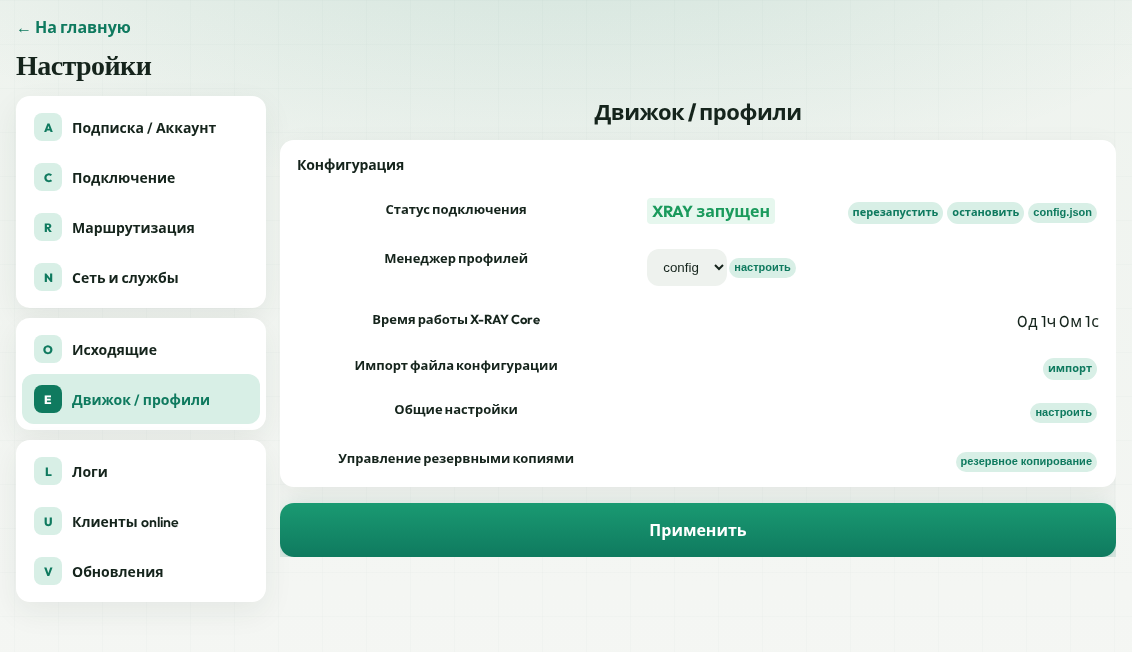
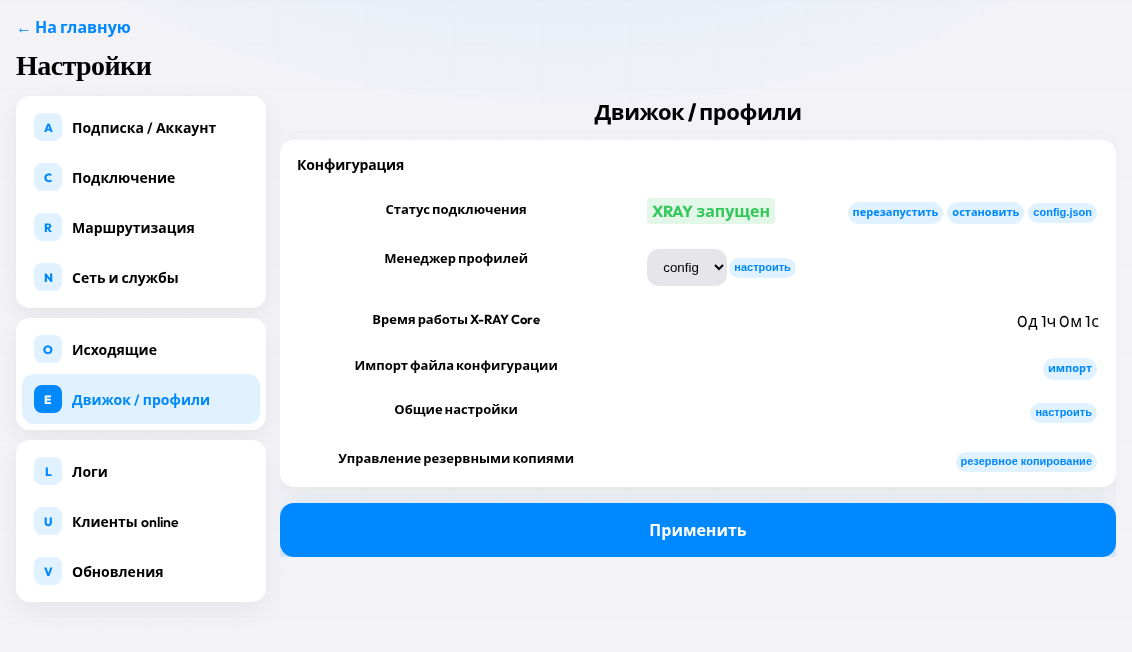
style: retint panel to iOS 27 system colors
Keep Soft Utility + Fraunces/Outfit; swap emerald for systemBlue

#0088FF, systemGreen #34C759, systemRed #FF383C, grouped #F2F2F7.

diff --git a/src/components/panel/panelTheme.scss b/src/components/panel/panelTheme.scss
@@ -1,16 +1,18 @@
-/* Light SurfGate panel (standalone :1131) — Soft Utility + Signal Paper. */
+/* Light SurfGate panel — Soft Utility + Signal Paper typography, iOS 27 colors. */
 .ss-panel-root {
-  --ss-bg0: #f4f6f3;
-  --ss-bg1: #fafbf9;
-  --ss-card: #ffffff;
-  --ss-text: #15241c;
-  --ss-muted: #5f6f66;
-  --ss-line: #dde5df;
-  --ss-blue: #0f7a5f; /* accent (emerald) — keep name for compatibility */
-  --ss-blue-soft: #d8efe6;
-  --ss-green: #1a9a5c;
-  --ss-danger: #d64545;
-  --ss-shadow: 0 10px 30px rgba(25, 50, 40, 0.07);
+  /* iOS 27 / Liquid Glass system tokens (light) */
+  --ss-bg0: #f2f2f7; /* systemGroupedBackground */
+  --ss-bg1: #ffffff;
+  --ss-card: #ffffff; /* secondarySystemGroupedBackground */
+  --ss-text: #000000; /* label */
+  --ss-muted: rgba(60, 60, 67, 0.6); /* secondaryLabel */
+  --ss-line: rgba(60, 60, 67, 0.18); /* separator-ish */
+  --ss-blue: #0088ff; /* systemBlue — control accent */
+  --ss-blue-soft: rgba(0, 136, 255, 0.12);
+  --ss-green: #34c759; /* systemGreen */
+  --ss-danger: #ff383c; /* systemRed */
+  --ss-fill: #e5e5ea; /* systemGray5 */
+  --ss-shadow: 0 8px 24px rgba(0, 0, 0, 0.06);
   --ss-radius: 14px;
   --ss-font: 'Outfit', 'Segoe UI', 'Helvetica Neue', sans-serif;
   --ss-font-brand: 'Fraunces', Georgia, 'Times New Roman', serif;
@@ -20,8 +22,8 @@
   color: var(--ss-text);
   font-family: var(--ss-font);
   background:
-    radial-gradient(1200px 520px at 50% -8%, rgba(15, 122, 95, 0.14), transparent 60%),
-    linear-gradient(180deg, #eef3ee 0%, var(--ss-bg0) 42%, #f7f8f6 100%);
+    radial-gradient(1000px 480px at 50% -12%, rgba(0, 136, 255, 0.1), transparent 58%),
+    var(--ss-bg0);
   background-attachment: fixed;
 }
 
@@ -30,10 +32,10 @@
   position: fixed;
   inset: 0;
   pointer-events: none;
-  opacity: 0.28;
+  opacity: 0.22;
   background-image:
-    linear-gradient(rgba(40, 90, 70, 0.06) 1px, transparent 1px),
-    linear-gradient(90deg, rgba(40, 90, 70, 0.06) 1px, transparent 1px);
+    linear-gradient(rgba(60, 60, 67, 0.05) 1px, transparent 1px),
+    linear-gradient(90deg, rgba(60, 60, 67, 0.05) 1px, transparent 1px);
   background-size: 44px 44px;
   z-index: 0;
 }
@@ -70,8 +72,8 @@
   width: 28px;
   height: 28px;
   border-radius: 50%;
-  background: radial-gradient(circle at 35% 30%, #5ec4a0, var(--ss-blue));
-  box-shadow: 0 0 0 4px rgba(15, 122, 95, 0.14);
+  background: radial-gradient(circle at 35% 30%, #64b5ff, var(--ss-blue));
+  box-shadow: 0 0 0 4px rgba(0, 136, 255, 0.16);
 }
 
 .ss-brand-name {
@@ -110,8 +112,8 @@
   margin: 8px auto 14px;
   border-radius: 50%;
   background:
-    radial-gradient(circle at 50% 42%, rgba(120, 210, 170, 0.95), rgba(15, 122, 95, 0.38) 55%, transparent 70%),
-    radial-gradient(circle at 50% 50%, rgba(15, 122, 95, 0.16), transparent 70%);
+    radial-gradient(circle at 50% 42%, rgba(120, 200, 255, 0.95), rgba(0, 136, 255, 0.38) 55%, transparent 70%),
+    radial-gradient(circle at 50% 50%, rgba(52, 199, 89, 0.18), transparent 70%);
   position: relative;
   animation: ss-orb-pulse 3.2s ease-in-out infinite;
 }
@@ -121,8 +123,8 @@
   position: absolute;
   inset: 34px;
   border-radius: 50%;
-  background: linear-gradient(160deg, #8fd9b8, #0f7a5f 72%);
-  box-shadow: inset 0 -8px 16px rgba(0, 60, 40, 0.22);
+  background: linear-gradient(160deg, #7ec8ff, #0088ff 72%);
+  box-shadow: inset 0 -8px 16px rgba(0, 60, 140, 0.22);
 }
 
 .ss-hero-orb.is-off {
@@ -162,7 +164,7 @@
   font-size: 22px;
   font-weight: 700;
   letter-spacing: -0.02em;
-  color: var(--ss-blue);
+  color: var(--ss-green);
   margin: 0;
 }
 
@@ -256,7 +258,7 @@
 }
 
 .ss-loc-item.is-active {
-  background: linear-gradient(90deg, rgba(15, 122, 95, 0.07), transparent);
+  background: linear-gradient(90deg, rgba(0, 136, 255, 0.08), transparent);
   border-radius: 12px;
   padding-left: 8px;
   padding-right: 8px;
@@ -318,15 +320,15 @@
 }
 
 .ss-primary-btn.start {
-  background: linear-gradient(180deg, #1a9a72, var(--ss-blue));
+  background: var(--ss-blue);
   color: #fff;
-  box-shadow: 0 10px 24px rgba(15, 122, 95, 0.32);
+  box-shadow: 0 8px 20px rgba(0, 136, 255, 0.28);
 }
 
 .ss-primary-btn.stop {
   background: #fff;
   color: var(--ss-danger);
-  border: 1px solid #f0c2c2;
+  border: 1px solid rgba(255, 56, 60, 0.28);
   box-shadow: var(--ss-shadow);
 }
 
@@ -540,7 +542,7 @@
   box-sizing: border-box;
   border: 0;
   border-radius: 12px;
-  background: #eef2ee;
+  background: var(--ss-fill);
   color: var(--ss-text);
   font: inherit;
   font-size: 14px;
@@ -551,7 +553,7 @@
 
 .ss-field input:focus,
 .ss-field select:focus {
-  box-shadow: 0 0 0 3px rgba(15, 122, 95, 0.2);
+  box-shadow: 0 0 0 3.5px rgba(0, 136, 255, 0.35);
 }
 
 .ss-toggle {
@@ -560,7 +562,7 @@
   height: 31px;
   border: 0;
   border-radius: 999px;
-  background: #e1e6ee;
+  background: #e5e5ea;
   padding: 0;
   cursor: pointer;
   transition: background 0.18s ease;
@@ -605,7 +607,7 @@
 }
 
 .ss-chip-btn.danger {
-  background: #fde8e8;
+  background: rgba(255, 56, 60, 0.12);
   color: var(--ss-danger);
 }
 
@@ -692,7 +694,7 @@
 .ss-panel-light .FormTable input[type='password'],
 .ss-panel-light .FormTable select,
 .ss-panel-light .FormTable textarea {
-  background: #eef2ee !important;
+  background: var(--ss-fill) !important;
   border: 0 !important;
   border-radius: 12px !important;
   color: var(--ss-text) !important;
@@ -710,12 +712,12 @@
 }
 
 .ss-panel-light .label-success {
-  background: #e6f7ee !important;
+  background: rgba(52, 199, 89, 0.14) !important;
   color: var(--ss-green) !important;
 }
 
 .ss-panel-light .label-error {
-  background: #fde8e8 !important;
+  background: rgba(255, 56, 60, 0.12) !important;
   color: var(--ss-danger) !important;
 }
 
@@ -772,7 +774,7 @@
 .ss-panel-light pre.log,
 .ss-panel-light .log-view,
 .ss-panel-light .sni-list {
-  background: #eef2ee !important;
+  background: var(--ss-fill) !important;
   color: var(--ss-text) !important;
   border-radius: 12px;
 }

diff --git a/src/panel/index.html b/src/panel/index.html
@@ -6,7 +6,7 @@
     <meta name="viewport" content="width=device-width, initial-scale=1.0, viewport-fit=cover" />
     <meta http-equiv="Pragma" content="no-cache" />
     <meta http-equiv="Cache-Control" content="no-cache" />
-    <meta name="theme-color" content="#0f7a5f" />
+    <meta name="theme-color" content="#0088FF" />
     <title>SurfGate</title>
     <link rel="preconnect" href="https://fonts.googleapis.com" />
     <link rel="preconnect" href="https://fonts.gstatic.com" crossorigin />
@@ -19,8 +19,8 @@
       body {
         margin: 0;
         min-height: 100%;
-        background: #f4f6f3;
-        color: #15241c;
+        background: #f2f2f7;
+        color: #000000;
         font-family: 'Outfit', 'Segoe UI', 'Helvetica Neue', sans-serif;
       }
       #ss-panel-boot {
@@ -35,13 +35,13 @@
         font-size: 1.75rem;
         font-weight: 700;
         letter-spacing: -0.02em;
-        color: #0f7a5f;
+        color: #0088ff;
       }
       #ss-panel-boot[hidden] {
         display: none;
       }
       #ss-panel-boot .err {
-        color: #d64545;
+        color: #ff383c;
         margin-top: 1rem;
         white-space: pre-wrap;
       }
@@ -56,7 +56,7 @@
   <body class="ss-standalone-panel">
     <div id="ss-panel-boot">
       <div class="brand">SurfGate</div>
-      <div style="margin-top: 0.5rem; font-size: 0.95rem; color: #5f6f66">Загрузка панели…</div>
+      <div style="margin-top: 0.5rem; font-size: 0.95rem; color: rgba(60,60,67,0.6)">Загрузка панели…</div>
       <div id="ss-panel-boot-err" class="err" hidden></div>
     </div>
 
